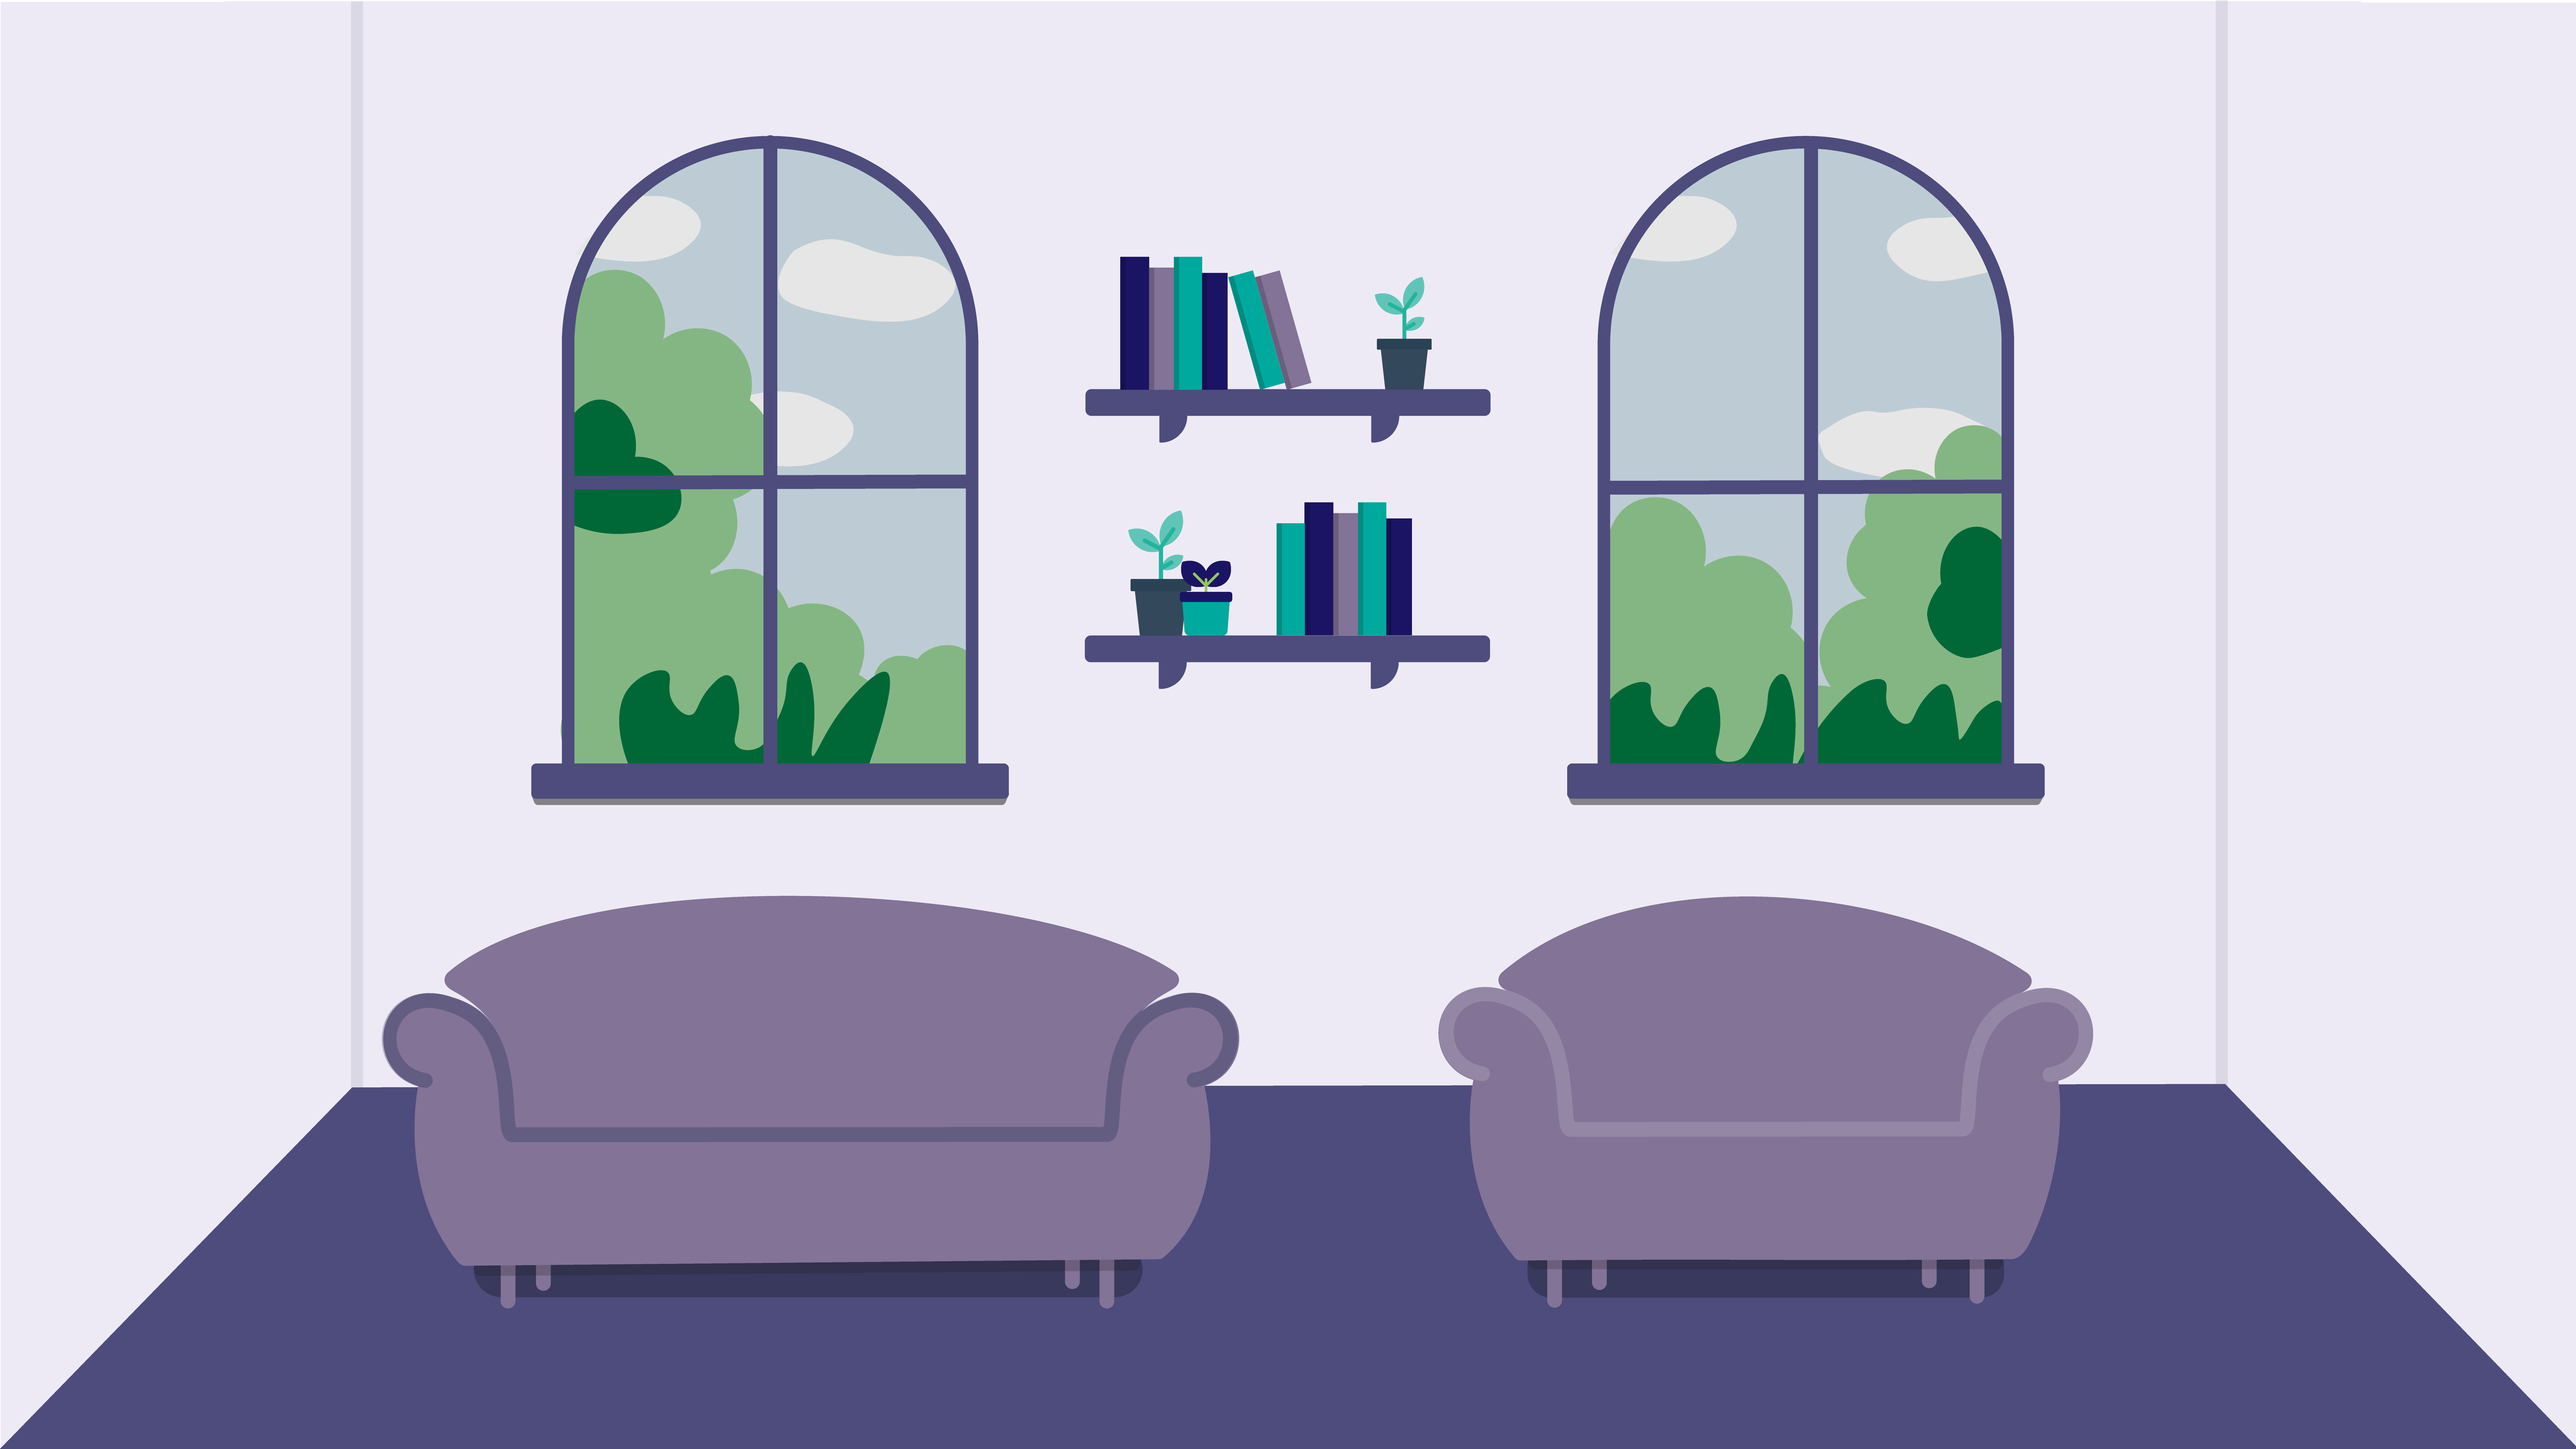
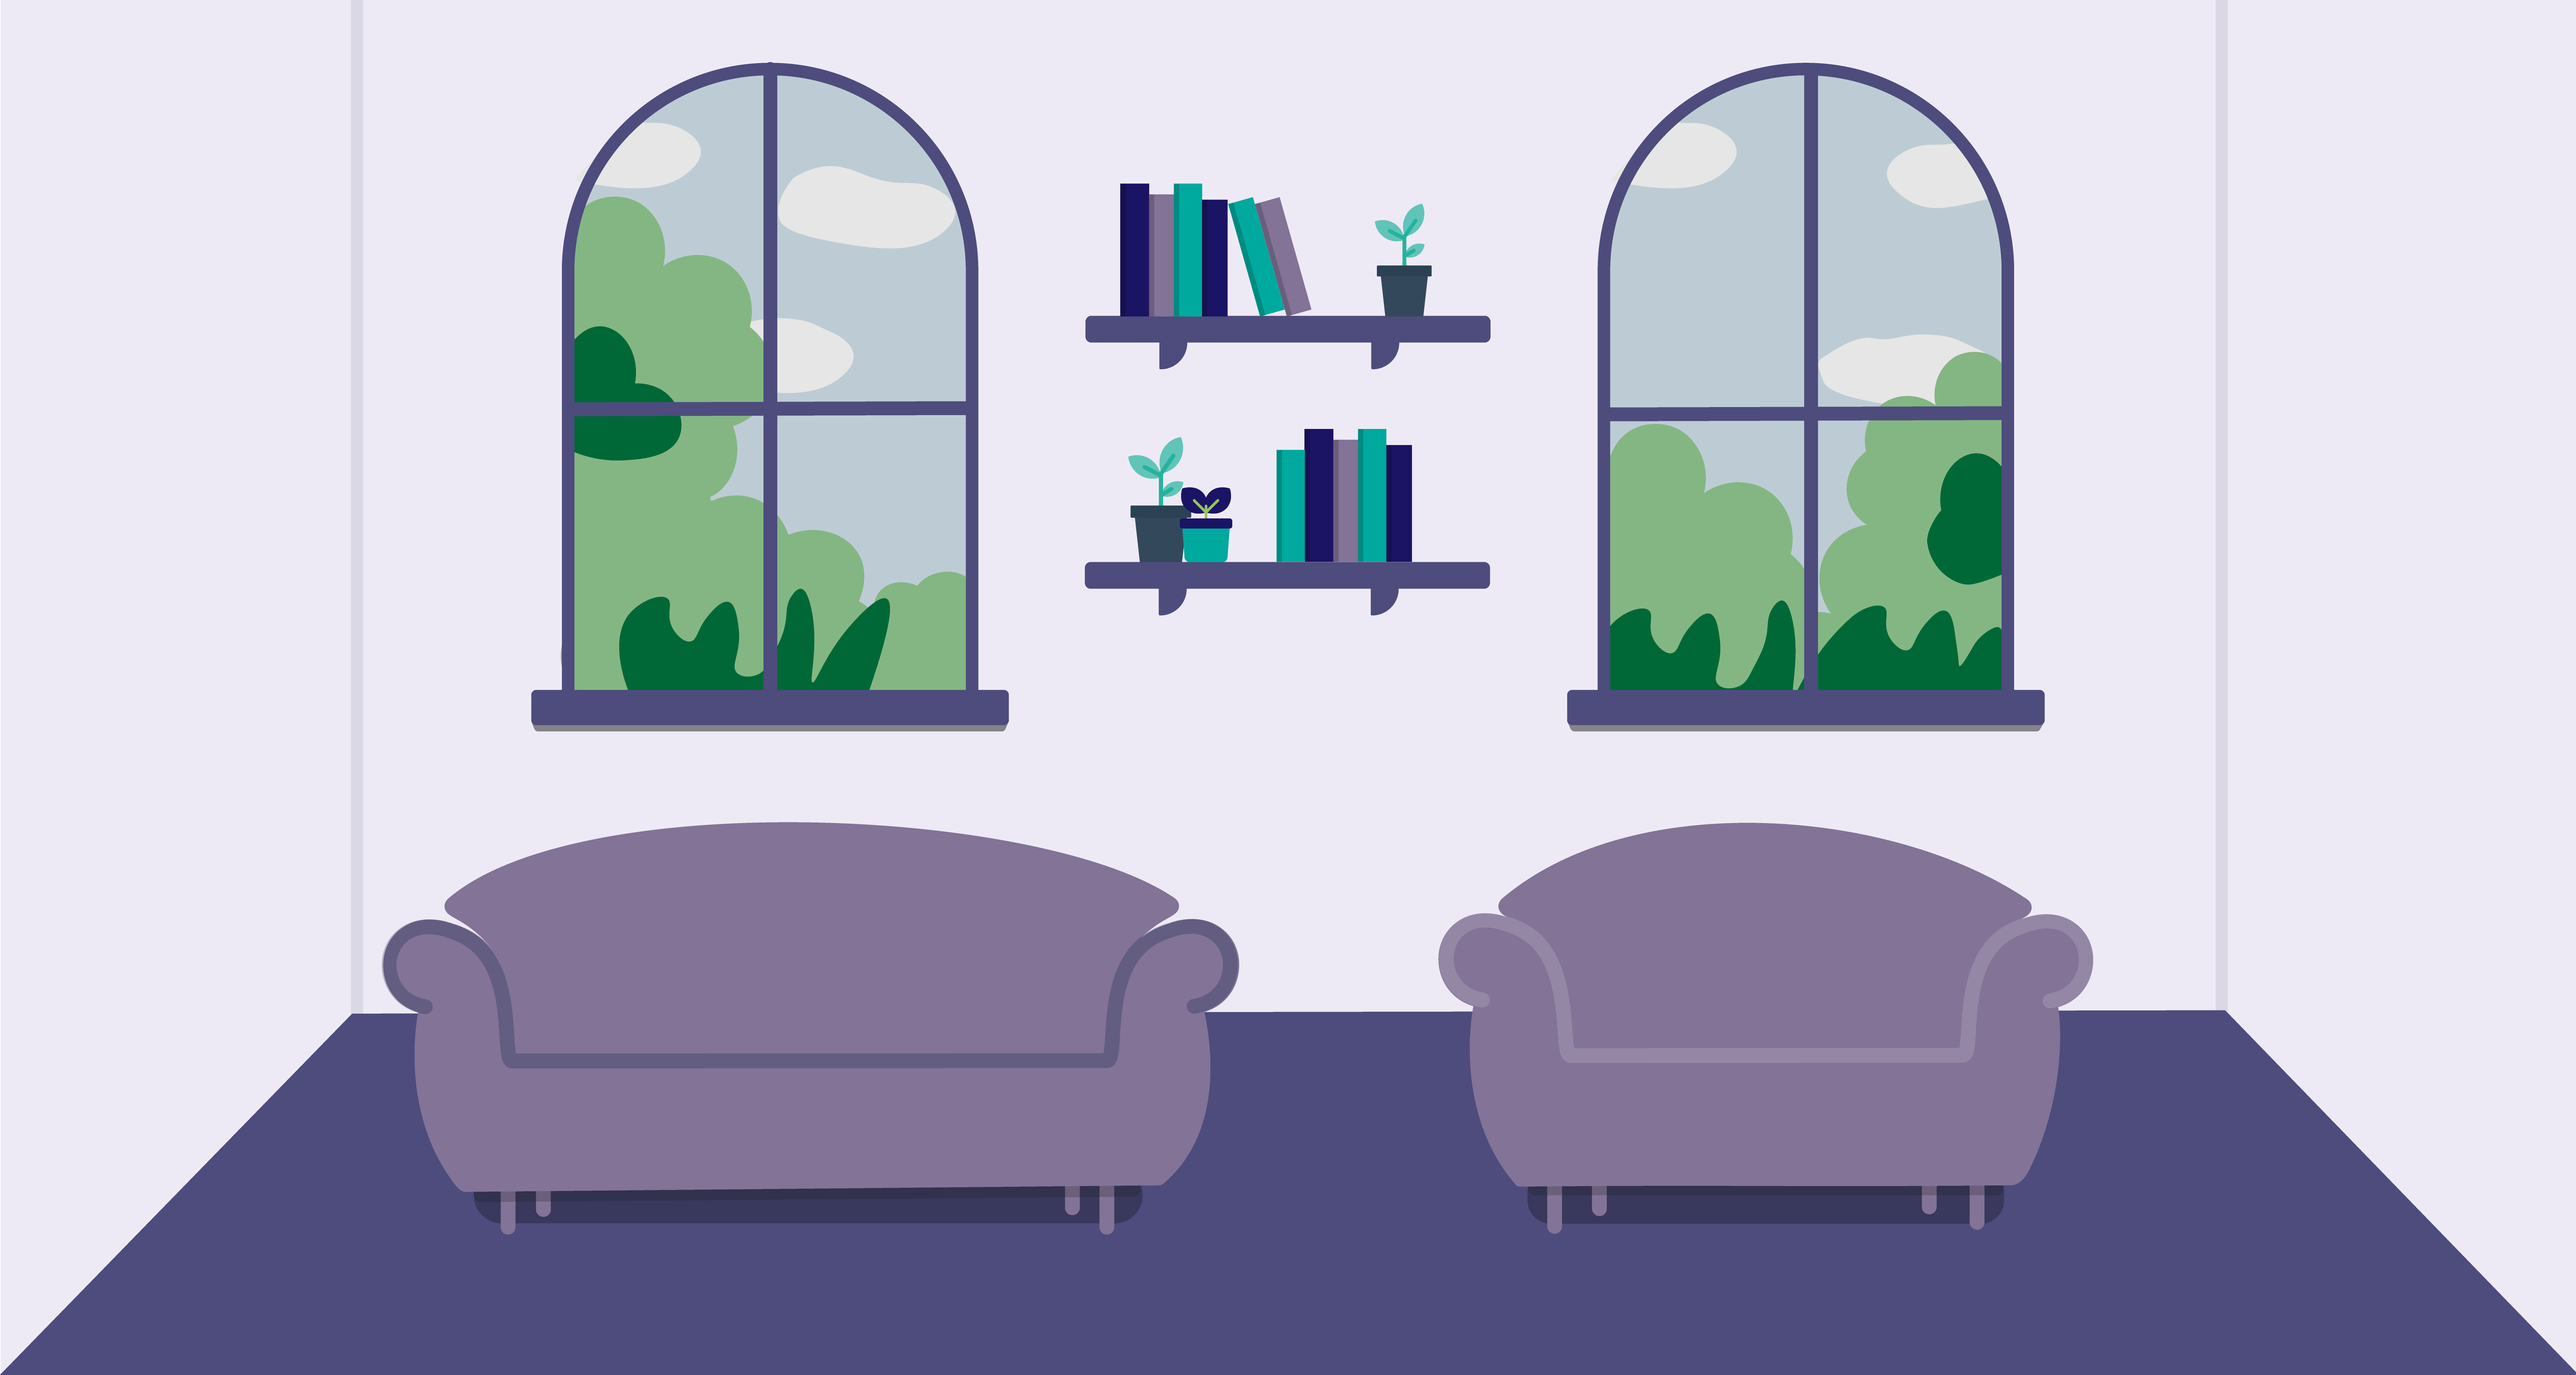
home page fixes

diff --git a/js/views/footerView.js b/js/views/footerView.js
@@ -2,14 +2,14 @@ function footerView() {
   
   let result = `<div class="container">
   <div class="row">
-    <div class="col-lg-3 col-sm-12 col-md-6">
+    <div class="col-lg-3 col-sm-12">
       <h4 class="text my-5">MNUSE</h4>
       <ul>
         <li><a href="">Rules</a></li>
         <li><a href="">About Us</a></li>
       </ul>
     </div>
-    <div class="col-lg-3 col-sm-12 col-md-6">
+    <div class="col-lg-3 col-sm-12">
       <h4 class="text my-5">Find Help</h4>
       <ul>
         <li><a href="https://www.nimh.nih.gov/health/find-help">National Institute of Mental Health</a></li>
@@ -17,7 +17,7 @@ function footerView() {
         <li><a href="https://www.mhe-sme.org/">Mental Health Europe</a></li>
       </ul>
     </div>
-    <div class="col-lg-3 col-sm-12 col-md-6">
+    <div class="col-lg-3 col-sm-12">
       <h4 class="text my-5">Get Updates</h4>
       <form class="text">
         <input type="text" placeholder="enter your email" id="subscribe"><br/>
@@ -36,7 +36,7 @@ function footerView() {
         </div>
       </div>
     </div>
-    <div class="col-lg-3 col-sm-12 col-md-6">
+    <div class="col-lg-3 col-sm-12">
       <h4 class="text my-5">Socials</h4>
       <div class="social-links">
         <a href="https://www.facebook.com/"><i class="fab fa-facebook-f"></i></a>

diff --git a/index.html b/index.html
@@ -11,7 +11,7 @@
 </head>
 <body>
     <div id="background">
-        <img class="img" src="img/sala_terapeuta - Cópia.png" alt="Sala Terapeuta">
+        <img class="img" src="img/sala_terapeuta.png" alt="Sala Terapeuta">
         <div class="overlay"></div>    
     </div>
     <div id="bodyWebsite">
